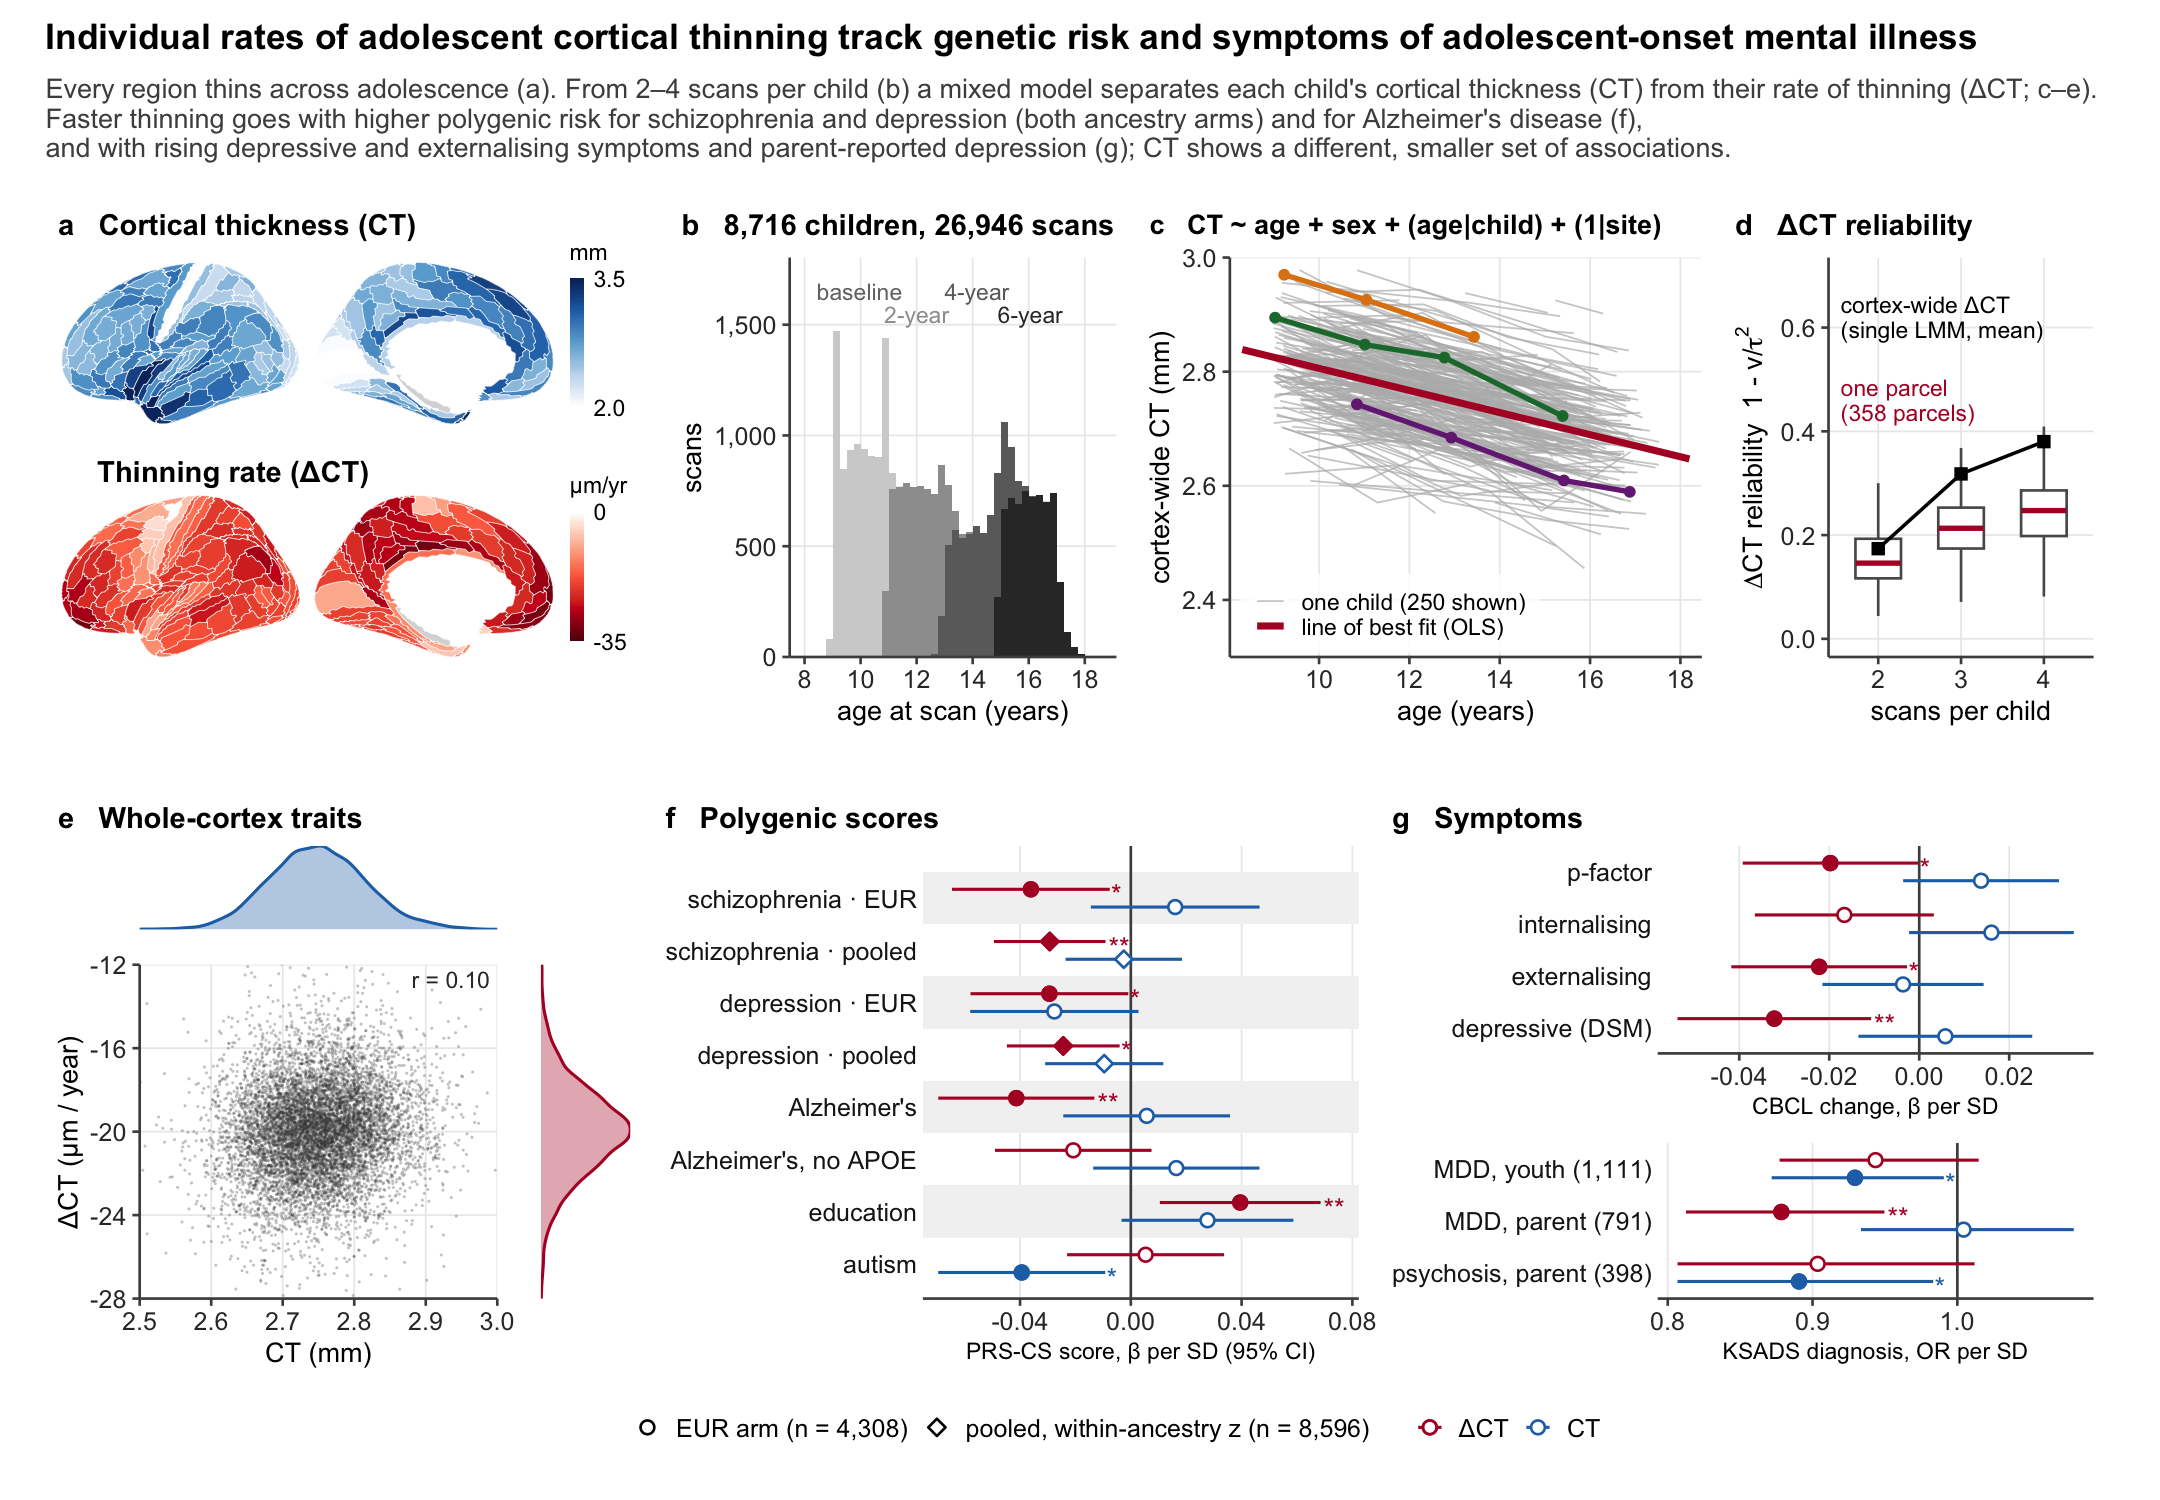
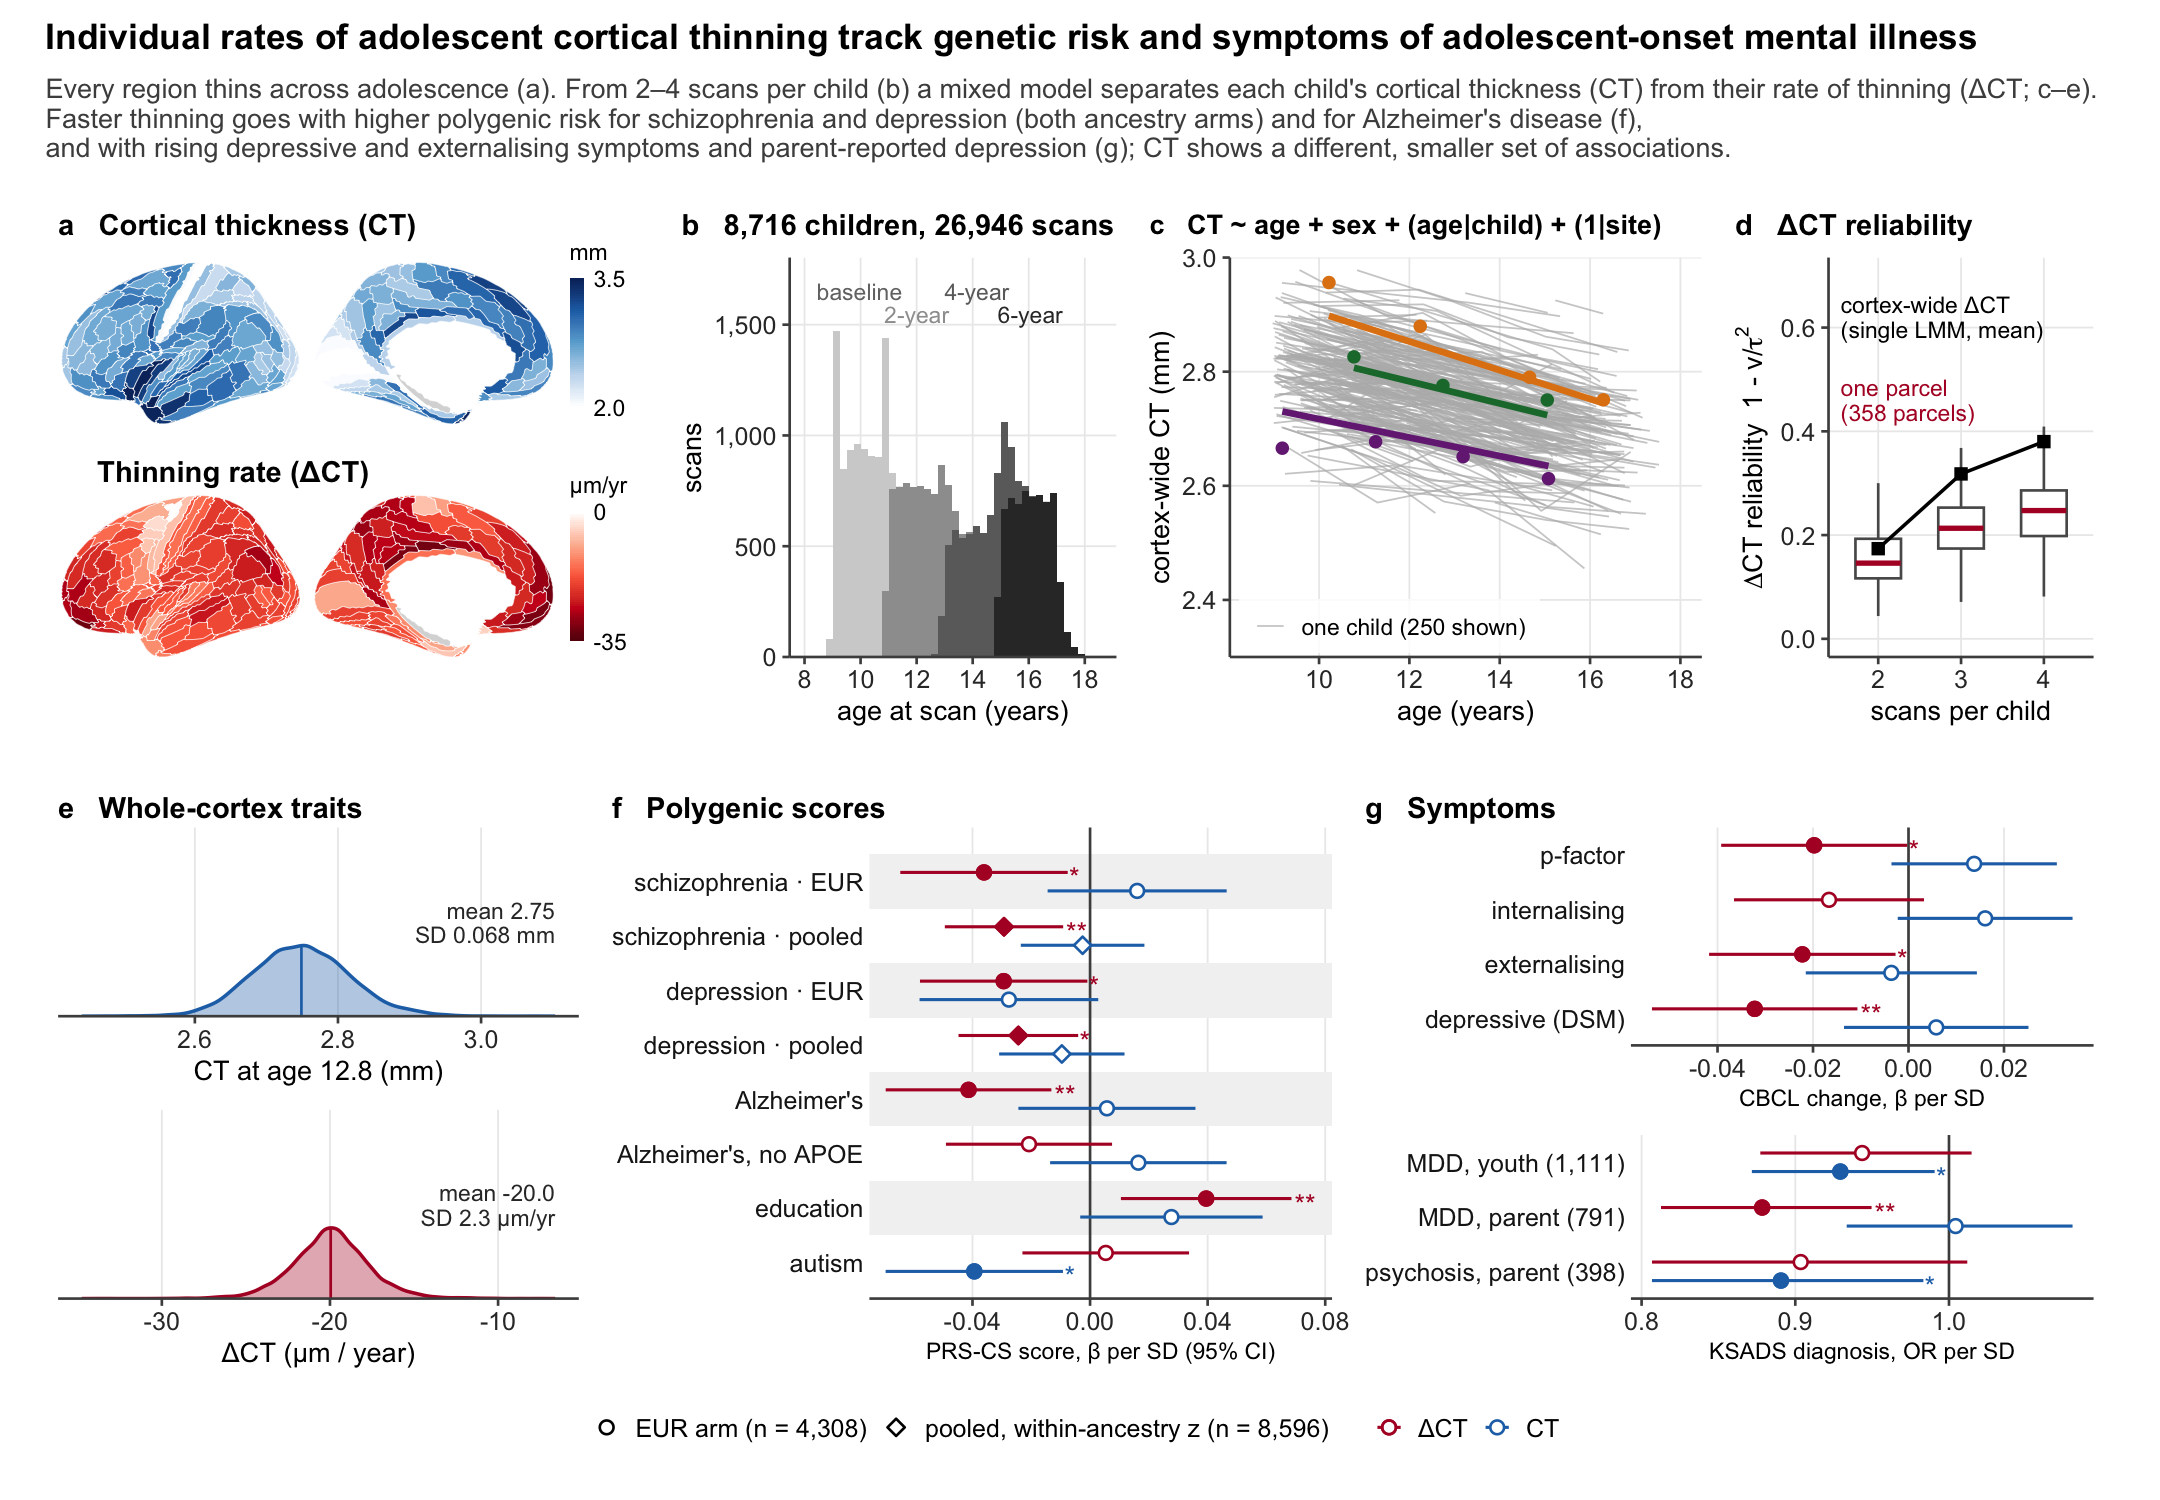
fig1 c: each highlighted child's model-fitted line replaces the population OLS line; e back to two densities
c  the three coloured lines are fixed effects + the child's random intercept and
   slope (site omitted) over the child's own age span: exactly the CT (height
   at 12.8 y) and ΔCT (slope) the rest of the figure uses, shrinkage visible
   against the raw points.  Children chosen on the fitted traits (within-child
   residual SD < 0.03 mm): thick + fast (zCT 1..1.8, zΔCT -2.5..-1.5, 4 scans),
   thin + slow (mirror, 4 scans), near-average (|z| < 0.3 both, 3 scans).
   hcp70_child_traits.csv (gitignored) now carries sid, the same key as
   hcp70_scans.csv (checked: model-implied vs observed per-scan CT r = 0.96).
   Note sample(x, 1) on a length-1 x samples 1:x -- pick() indexes instead.
e  scatter reverted to the CT / ΔCT densities (user); title stays
   'Whole-cortex traits'.  hcp70_child_hist2d.csv is now unused.

diff --git a/docs/figures/fig1_caption.md b/docs/figures/fig1_caption.md
@@ -3,9 +3,9 @@ CT and ΔCT are the intercept and slope of one linear mixed model per region (a)
 
 - **a** Group maps per parcel (bilateral mean, left hemisphere shown): mean per-child CT (1.7–3.8 mm) and ΔCT (-33 to -0.1 µm / year).
 - **b** Age at scan by visit; 8,716 children, 26,946 scans; 2 / 3 / 4 scans per child for 2,205 / 3,508 / 3,003 children.
-- **c** Per-scan cortical mean vs age for 250 random children (grey), three children offset from the fit line (colour; two with four scans, one with three), OLS line of best fit -19 µm / year (red). Title: the linear mixed model fitted to each child's scans, whose child-level intercept and slope are CT and ΔCT.
+- **c** Per-scan cortical mean thickness against age for 250 random children (grey) and three highlighted children (points, colour): a child with thick cortex and fast thinning, one with thin cortex and slow thinning (four scans each) and a near-average child (three scans). Each coloured line is that child's fitted trajectory from the mixed model in the title, fixed effects plus the child's random intercept and slope (site effect omitted), so its height at 12.8 years is the child's CT and its slope is their ΔCT. Lines are shrunk toward the population trajectory, most for children with fewer or closely spaced scans.
 - **d** ΔCT reliability 1 − v/τ², where v is a child's conditional (posterior) variance of the slope random effect and τ² the between-child slope variance: boxes, per-parcel LMMs (358 parcels; each value the mean over children; medians 0.15 / 0.21 / 0.25 for 2 / 3 / 4 scans); squares, the single LMM on the cortical mean (mean over children 0.17 / 0.32 / 0.38).
-- **e** Whole-cortex CT and ΔCT for each of the 8,716 children (single LMM on the per-scan cortical mean; CT at the sample-mean scan age, 12.8 years): scatter, with marginal densities (CT blue, ΔCT red). Per-child estimates are shrunk toward the mean (ΔCT SD 2.3 µm/yr against a model between-child SD of 4.2 µm/yr); every child's estimated ΔCT is negative, and CT and ΔCT are nearly independent (r = 0.10).
+- **e** Distributions of whole-cortex CT and ΔCT across the 8,716 children (single LMM on the per-scan cortical mean; CT at the sample-mean scan age, 12.8 years). Per-child estimates are shrunk toward the mean (ΔCT SD 2.3 µm/yr against a model between-child SD of 4.2 µm/yr); every child's estimated ΔCT is negative, and CT and ΔCT are nearly independent across children (r = 0.10).
 - **f** PRS-CS polygenic score association with ΔCT (red) and CT (blue) on each row; β per SD of score with 95% CI; filled = p < 0.05. Schizophrenia (2025 GWAS): ΔCT p = 0.01 EUR / 0.004 pooled, CT p = 0.30 / 0.81. C+T and SBayesRC give the same ΔCT pattern (SI). * p < 0.05, ** p < 0.01, *** p < 0.001 (uncorrected).
 - **g** Symptoms against the same single-LMM phenotypes (ΔCT red, CT blue; each fitted alone; filled = p < 0.05; * p < 0.05, ** p < 0.01, *** p < 0.001). CBCL (parent report, log1p raw scale sums): symptoms at ages ~15–17 (mean of the available waves 5–7) adjusted for the same score at baseline (ANCOVA; not a difference score and not a per-child symptom slope), y_late ~ phenotype + y_baseline + age_late + sex + site, β in SD of y_late. KSADS: diagnosis (present or past) at any administered session from baseline to year 6, i.e. lifetime and including baseline cases, logistic with age at the last CBCL, odds ratio per SD. Both phenotypes are signed as in e–f (ΔCT negative = faster thinning), so β < 0 or OR < 1 means more symptoms with faster thinning or with thinner cortex. Estimates are unchanged when both phenotypes enter one model (CT–ΔCT r = 0.06). Family-clustered SEs; n = 8,189 (CBCL change) and 8,716 (KSADS). Faster thinning goes with rising depressive (p = 0.003), externalising (p = 0.03) and general (p-factor, p = 0.05) symptoms and parent-reported MDD (OR 0.88, p = 0.001); thinner cortex (CT) goes with youth-reported MDD (OR 0.93, p = 0.02) and parent-reported psychosis spectrum (OR 0.89, p = 0.02). Exploratory, uncorrected.
 
